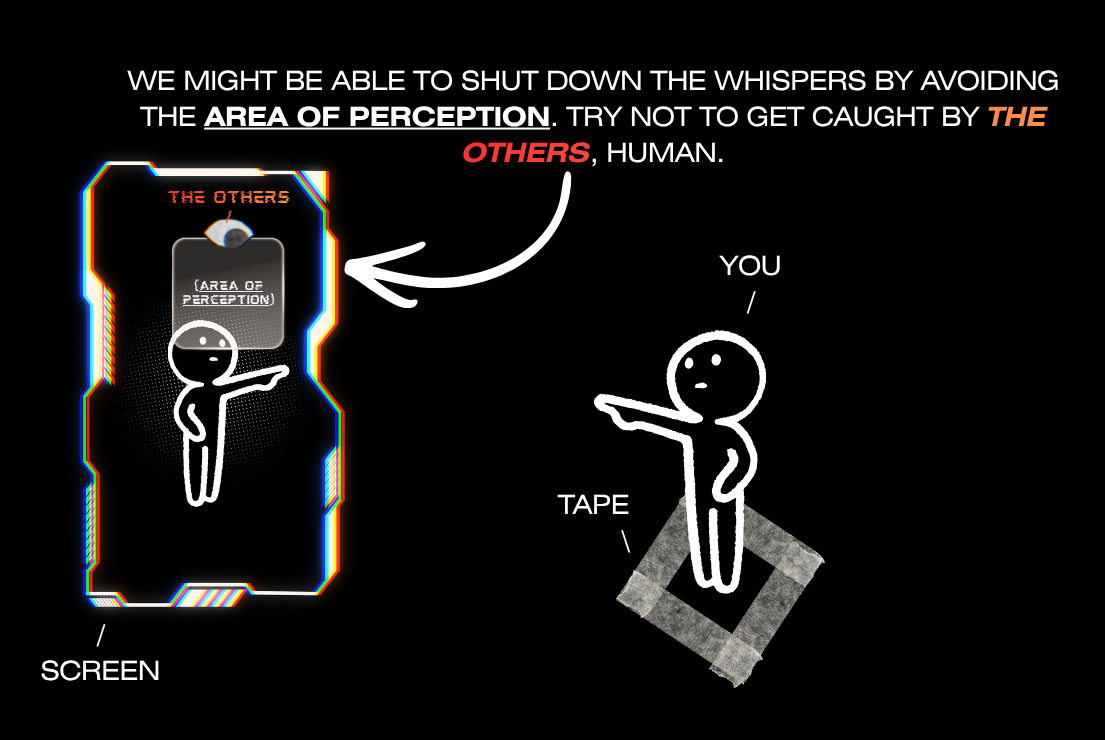
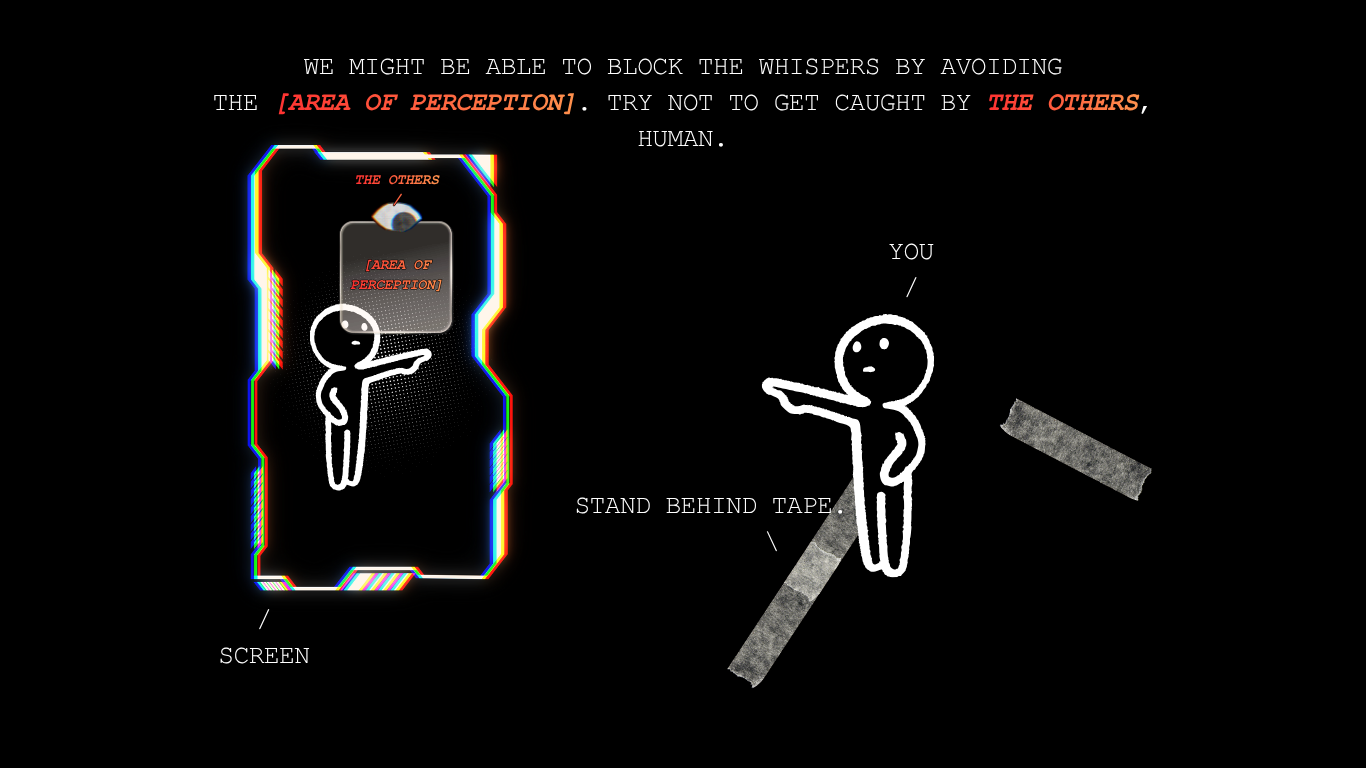
+ quick checkup.

diff --git a/controller.js b/controller.js
@@ -55,7 +55,6 @@ introBtn.addEventListener("click", () => {
     messageScreen.classList.remove("hidden");
     messageInput.focus();
 
-    // Suggesties klikken vult het inputveld
     document.querySelectorAll(".suggestion").forEach(btn => {
         btn.addEventListener("click", () => {
             messageInput.value = btn.innerText;
@@ -82,7 +81,6 @@ messageBtn.addEventListener("click", () => {
     messageScreen.classList.add("hidden");
     waitScreen.classList.remove("hidden");
 
-    // Luister op game status van apparaat 1
     onValue(ref(db, "game/status"), (snapshot) => {
         const status = snapshot.val();
         console.log("game status:", status);
@@ -99,7 +97,6 @@ messageBtn.addEventListener("click", () => {
             controllerInstruction.innerText = "move the frame. find the perfect shot.";
             controllerArea.style.opacity = "1";
             controllerArea.style.pointerEvents = "auto";
-            // Zorg dat controllerScreen zichtbaar is ook als pregame gemist werd
             waitScreen.classList.add("hidden");
             controllerScreen.classList.remove("hidden");
         }
@@ -110,6 +107,35 @@ messageBtn.addEventListener("click", () => {
         }
     });
 });
+
+/* =========================
+   SMOOTH BEWEGING — TARGET & CURRENT
+========================= */
+let targetX = 960;
+let targetY = 540;
+let currentX = 960;
+let currentY = 540;
+let lastSend = 0;
+
+// Smooth loop — beweegt langzamer dan de muis
+function smoothLoop() {
+    const speed = 0.08; // lager = meer delay
+    currentX += (targetX - currentX) * speed;
+    currentY += (targetY - currentY) * speed;
+
+    const now = Date.now();
+    if (now - lastSend > 50) {
+        lastSend = now;
+        set(ref(db, "game/boxPosition"), {
+            x: Math.round(currentX),
+            y: Math.round(currentY)
+        });
+    }
+
+    requestAnimationFrame(smoothLoop);
+}
+
+smoothLoop();
 
 /* =========================
    CONTROLLER — MUIS
@@ -128,29 +154,20 @@ controllerArea.addEventListener("touchmove", (e) => {
 }, { passive: false });
 
 /* =========================
-   POSITIE STUREN
+   POSITIE BEREKENEN → TARGET ZETTEN
 ========================= */
-let lastSend = 0;
-
 function handleMove(clientX, clientY) {
-
-    const now = Date.now();
-    if (now - lastSend < 50) return; // max 20x per seconde
-    lastSend = now;
-
     const rect = controllerArea.getBoundingClientRect();
 
     const fracX = Math.max(0, Math.min(1, (clientX - rect.left) / rect.width));
     const fracY = Math.max(0, Math.min(1, (clientY - rect.top) / rect.height));
 
-    // Dot bewegen in het controller vlak
+    // Dot beweegt direct mee
     controllerDot.style.left = (fracX * 100) + "%";
     controllerDot.style.top = (fracY * 100) + "%";
 
-    // Omrekenen naar schermcoördinaten van apparaat 1
+    // Target zetten — box beweegt langzamer via smoothLoop
     const padding = 20;
-    const x = padding + fracX * (screenW - 400 - padding * 2);
-    const y = padding + fracY * (screenH - 300 - padding * 2);
-
-    set(ref(db, "game/boxPosition"), { x, y });
+    targetX = padding + fracX * (screenW - 400 - padding * 2);
+    targetY = padding + fracY * (screenH - 300 - padding * 2);
 }

diff --git a/script.js b/script.js
@@ -46,11 +46,15 @@ function setGameStatus(status) {
 }
 
 function resetFirebase() {
-    set(ref(db, "game"), {
-        status: "waiting",
-        boxPosition: { x: window.innerWidth / 2, y: window.innerHeight / 2 },
-        message: "",
-        screen: { w: window.innerWidth, h: window.innerHeight }
+    // message NIET resetten — die komt van de controller
+    set(ref(db, "game/status"), "waiting");
+    set(ref(db, "game/boxPosition"), {
+        x: window.innerWidth / 2,
+        y: window.innerHeight / 2
+    });
+    set(ref(db, "game/screen"), {
+        w: window.innerWidth,
+        h: window.innerHeight
     });
 }
 
@@ -137,8 +141,8 @@ const endText = document.getElementById("endText");
    START
 ========================= */
 fingerprint.addEventListener("click", () => {
-    resetFirebase();
-    listenToMessage();
+    listenToMessage(); // eerst luisteren
+    resetFirebase();   // dan pas resetten (zonder message)
     startScreen.style.display = "none";
     experience.style.display = "flex";
     playVideo(currentVideo);
@@ -269,7 +273,6 @@ function startPreGameCountdown() {
     dodgeBox.style.display = "none";
     preGameOverlay.style.display = "flex";
 
-    // Controller ziet nu al dat het bijna begint
     setGameStatus("pregame");
 
     let timeLeft = 7;
@@ -303,7 +306,6 @@ function startActualGame() {
     dodgeBox.style.top = (window.innerHeight / 2 - 80) + "px";
     dodgeBox.style.display = "flex";
 
-    // Stuur schermgrootte mee zodat controller correct kan schalen
     set(ref(db, "game/screen"), {
         w: window.innerWidth,
         h: window.innerHeight
@@ -311,8 +313,27 @@ function startActualGame() {
 
     listenToBoxPosition();
     setGameStatus("started");
+    startRandomBlackouts();
 
     startRounds();
+}
+
+/* =========================
+   RANDOM BLACKOUTS
+========================= */
+function startRandomBlackouts() {
+    function scheduleNext() {
+        const delay = 8000 + Math.random() * 12000; // elke 8-20 seconden
+        setTimeout(() => {
+            if (!gameActive) return;
+            gameScreen.style.filter = "brightness(0)";
+            setTimeout(() => {
+                gameScreen.style.filter = "";
+                scheduleNext();
+            }, 600);
+        }, delay);
+    }
+    scheduleNext();
 }
 
 /* =========================
@@ -433,6 +454,7 @@ function endGame() {
     gameActive = false;
     heartbeatSound.pause();
     dodgeBox.style.display = "none";
+    gameScreen.style.filter = ""; // reset blackout filter
 
     setGameStatus("ended");
     startShutdownTransition();
@@ -509,7 +531,7 @@ function playOthersVideo(index) {
 
     mainVideo.onended = () => {
         if (index === othersVideos.length - 1) {
-            continueBtn.innerText = "listen to the whispers";
+            continueBtn.innerText = "rooting for me?";
             continueBtn.style.display = "block";
 
             continueBtn.onclick = () => {
@@ -672,7 +694,7 @@ function showEndScreen() {
         endPolaroids.appendChild(el);
     });
 
-    const message = window.__controllerMessage || "you have been seen by the others.";
+    const message = window.__controllerMessage || "you are seen by the others.";
 
     setTimeout(() => {
         endScreen.style.backgroundColor = "white";

diff --git a/controller.html b/controller.html
@@ -12,24 +12,28 @@
 <!-- STAP 1: INTRO -->
 <div id="introScreen">
     <img src="images/controller_intro.png" id="controllerIntroImg">
-    <button id="introBtn">i'm ready to shoot</button>
+    <button id="introBtn">i'm ready</button>
 </div>
 
 <!-- STAP 2: ZIN INTYPEN -->
 <div id="messageScreen" class="hidden">
-    <p id="messagePrompt">you're about to take a photo of someone.<br>write a caption for their polaroid —<br>something genuine. something kind.<br><span id="messageHint">they'll read this. make it count.</span></p>
+    <p id="messagePrompt">you're about to take a photo of someone.<br>choose or write your own caption for their pictures —<br>something genuine. something fun. something sweet. something about them.<br><span id="messageHint">they'll read this. make it count.</span></p>
     
     <input type="text" id="messageInput" maxlength="80" placeholder="write your own caption...">
 
     <div id="suggestions">
-        <button class="suggestion">you look like you belong in a film.</button>
-        <button class="suggestion">there's something about you that's hard to ignore.</button>
-        <button class="suggestion">you carry yourself like you know something others don't.</button>
-        <button class="suggestion">the room feels different when you're in it.</button>
-        <button class="suggestion">you have the kind of energy people remember.</button>
-        <button class="suggestion">your style is doing something right.</button>
-        <button class="suggestion">you look exactly like yourself. that's rare.</button>
-        <button class="suggestion">something about you is very easy to photograph.</button>
+        <button class="suggestion">highkey iconic.</button>
+        <button class="suggestion">very cool.</button>
+        <button class="suggestion">unreal energy.</button>
+        <button class="suggestion">the realest.</button>
+        <button class="suggestion">funny goofball.</button>
+        <button class="suggestion">the drippiest.</button>
+        <button class="suggestion">good vibes.</button>
+        <button class="suggestion">just aura.</button>
+        <button class="suggestion">immaculate taste.</button>
+        <button class="suggestion">well composed.</button>
+        <button class="suggestion">pleasant energy.</button>
+        <button class="suggestion">crazy smart.</button>
     </div>
 
     <button id="messageBtn">send it</button>

diff --git a/index.html b/index.html
@@ -18,7 +18,7 @@
 
 <!-- START -->
 <div id="startScreen">
-    <p id="startText">scan fingerprint to start</p>
+    <p id="startText">[scan fingerprint to start]</p>
     <img src="images/fingerprint.png" id="fingerprint">
 </div>
 
@@ -52,7 +52,7 @@
     <div id="timer">7</div>
 
     <div id="preGameOverlay">
-        <div id="preGameText">[stand behind the tape]</div>
+        <div id="preGameText">[stand behind tape]</div>
         <div id="preGameTimer">7</div>
     </div>
 
@@ -80,7 +80,7 @@
 
 <div id="endScreen">
     <div id="endPolaroids"></div>
-    <p id="endText">you have been seen by the others.</p>
+    <p id="endText">you are seen by the others.</p>
 </div>
 
 <script type="module" src="script.js"></script>